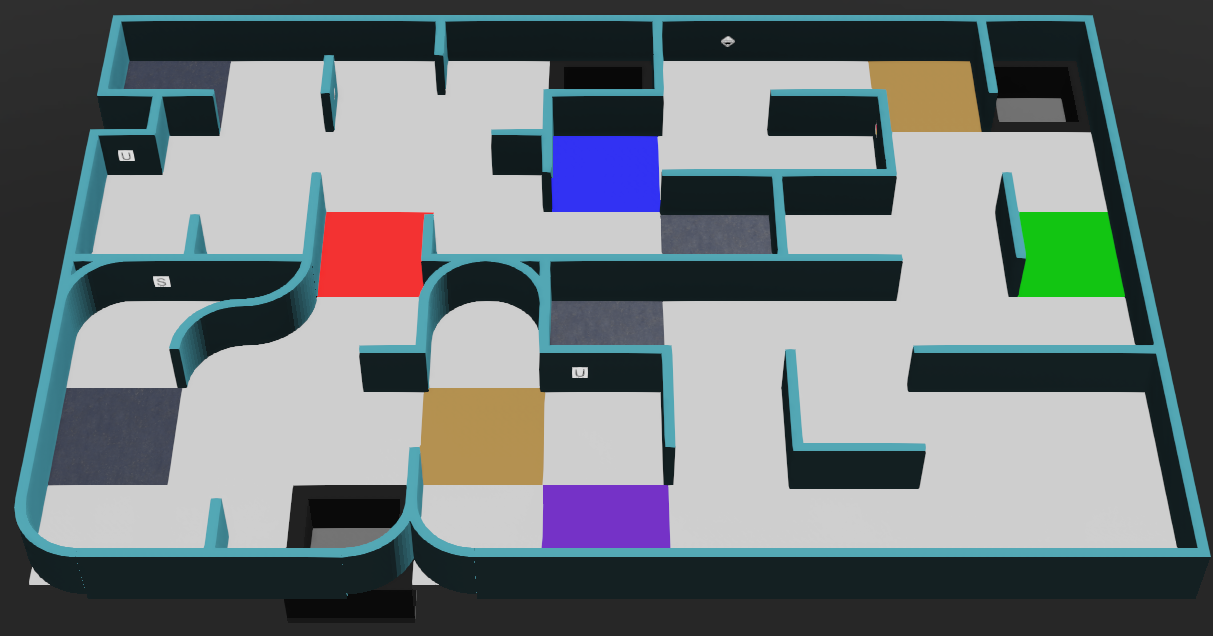
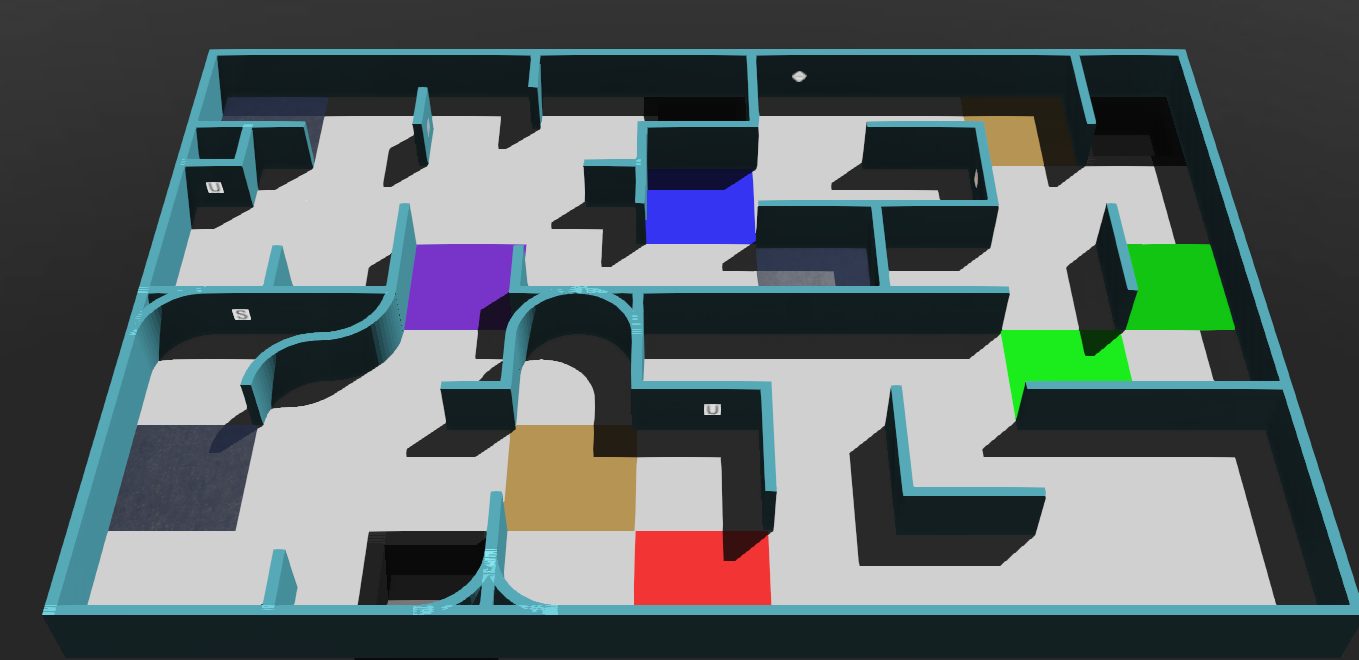
update world1.wbt world2.wbt info for map answer section

diff --git a/content/en/docs/Rules/Mapping/_index.md b/content/en/docs/Rules/Mapping/_index.md
@@ -79,7 +79,7 @@ The exception is the following case, where one side of the wall is a normal righ
 
 
 ## Examples
-These are examples of correct answers for some of the maps. The world files used here are provided to you as sample worlds. Note that worlds world1.wbt and world2.wbt do not have area 4s, so technically the connection tiles are not correct. The correct map answer will be applied to room4.wbt.
+These are examples of correct answers for some of the maps. The world files used here are provided to you as sample worlds.
 
 ### world1.wbt
 {{<figure src="world1.png" class="center">}}
@@ -110,11 +110,11 @@ These are examples of correct answers for some of the maps. The world files used
         ['1', '0', '0', '0', '0', '0', '0', '0', '1', '0', '0', '0', '1', '0', '0', '0', '0', '0', '0', '0', '1', '0', '0', '0', '0', '0', '1', '0', '0', '0', '0', '0', '1'],
         ['1', '0', '0', '0', '0', '0', '0', '0', '1', '0', '0', '0', '1', '0', '0', '0', '0', '0', '0', '0', '1', '0', '0', '0', '0', '0', '1', '1', '1', '0', '0', '0', '1'],
         ['1', '0', '0', '0', '0', '0', '0', '0', '1', '0', '0', '0', '1', '0', '0', '0', '0', '0', '0', '0', 'U', '0', '0', '0', '0', '0', '0', '0', '0', '0', '0', '0', '1'],
-        ['1', '0', '0', '0', '0', '0', '0', '0', '1', '1', '1', 'H', '1', '0', '0', '0', '1', '1', '1', '1', '1', '0', '0', '0', '0', '0', '0', '0', '1', '0', '0', '0', '1'],
-        ['P', '0', '0', '0', '0', '0', '0', '0', '0', '0', '0', '0', '1', '0', '0', '0', '0', '8', '0', '8', '0', '0', '0', '0', '0', '0', '0', '0', '1', '0', '0', '0', '1'],
-        ['1', '0', '0', '0', '0', '0', '0', '0', '0', '0', '0', '0', '1', '0', '0', '0', '0', '0', '0', '0', '0', '0', '0', '0', '0', '1', '1', '1', '0', '0', '0', '0', '1'],
-        ['1', '0', '0', '0', '0', '0', '0', '0', '0', '0', '0', '0', '1', '0', '0', '0', '0', '8', '0', '8', '0', '0', '0', '0', '1', '0', '0', '0', '0', '0', '0', '0', '1'],
-        ['1', '0', '0', '0', '0', '0', '0', '0', '0', '0', '0', '0', '1', '0', '0', '0', '1', '1', '1', '1', '1', '0', '0', '0', '1', '0', '0', '0', '0', '0', '0', '0', '1'],
+        ['1', '0', '0', '0', '0', '0', '0', '0', '1', '1', '1', 'H', '1', '0', '0', '0', '0', '0', '0', '0', '1', '0', '0', '0', '0', '0', '0', '0', '1', '0', '0', '0', '1'],
+        ['P', '0', '0', '0', '0', '0', '0', '0', '0', '0', '0', '0', '1', '0', '0', '0', '0', '0', '0', '0', '1', '0', '0', '0', '0', '0', '0', '0', '1', '0', '0', '0', '1'],
+        ['1', '0', '0', '0', '0', '0', '0', '0', '0', '0', '0', '0', '1', '0', '0', '0', '0', '0', '0', '0', '1', '0', '0', '0', '0', '1', '1', '1', '0', '0', '0', '0', '1'],
+        ['1', '0', '0', '0', '0', '0', '0', '0', '0', '0', '0', '0', '1', '0', '0', '0', '0', '0', '0', '0', '1', '0', '0', '0', '1', '0', '0', '0', '0', '0', '0', '0', '1'],
+        ['1', '0', '0', '0', '0', '0', '0', '0', '0', '0', '0', '0', '1', '0', '0', '0', '0', '0', '0', '0', '1', '0', '0', '0', '1', '0', '0', '0', '0', '0', '0', '0', '1'],
         ['1', '0', '0', '0', '0', '0', '0', '0', '0', '0', '0', '0', '0', '0', '0', '0', '0', '4', '0', '4', '1', '0', '0', '0', '0', '0', '0', '0', '0', '0', '0', '0', '1'],
         ['1', '0', '0', '0', '0', '0', '0', '0', '0', '0', '0', '0', '0', '0', '0', '0', '0', '0', '0', '0', '1', '0', '0', '0', '0', '0', '0', '0', '0', '0', '0', '0', '1'],
         ['1', '0', '0', '0', '0', '0', '0', '0', '0', '0', '0', '0', '0', '0', '0', '0', '0', '4', '0', '4', '1', '0', '0', '0', '0', '0', '0', '0', '0', '0', '0', '0', '1'],
@@ -136,21 +136,21 @@ These are examples of correct answers for some of the maps. The world files used
         ['1', 'U', '1', '0', '0', '0', '0', '0', '0', '0', '0', '0', '0', '0', '1', '1', '1', '0', '0', '0', '0', '0', '0', '0', '0', '0', '0', '0', '1', '0', '0', '0', '0', '0', '0', '0', '1'],
         ['1', '0', '0', '0', '0', '0', '0', '0', '0', '0', '0', '0', '0', '0', '0', '0', '1', '6', '0', '6', '0', '0', '0', '0', '0', '0', '0', '0', '1', '0', '0', '0', '0', '0', '0', '0', '1'],
         ['1', '0', '0', '0', '0', '0', '0', '0', '1', '0', '0', '0', '0', '0', '0', '0', '1', '0', '0', '0', '1', '1', '1', '1', '1', '1', '1', '1', '1', '0', '0', '0', '1', '0', '0', '0', '1'],
-        ['1', '0', '0', '0', '0', '0', '0', '0', '1', '8', '0', '8', '0', '0', '0', '0', '0', '0', '0', '0', '0', '4', '0', '4', '1', '0', '0', '0', '0', '0', '0', '0', '1', '5', '0', '5', '1'],
+        ['1', '0', '0', '0', '0', '0', '0', '0', '1', '7', '0', '7', '0', '0', '0', '0', '0', '0', '0', '0', '0', '4', '0', '4', '1', '0', '0', '0', '0', '0', '0', '0', '1', '5', '0', '5', '1'],
         ['1', '0', '0', '0', '1', '0', '0', '0', '1', '0', '0', '0', '0', '0', '0', '0', '0', '0', '0', '0', '0', '0', '0', '0', '1', '0', '0', '0', '0', '0', '0', '0', '1', '0', '0', '0', '1'],
-        ['1', '0', '0', '0', '1', '0', '0', '0', '1', '8', '0', '8', '0', '0', '0', '0', '0', '0', '0', '0', '0', '4', '0', '4', 'H', '0', '0', '0', '0', '0', '0', '0', '1', '5', '0', '5', '1'],
+        ['1', '0', '0', '0', '1', '0', '0', '0', '1', '7', '0', '7', '0', '0', '0', '0', '0', '0', '0', '0', '0', '4', '0', '4', 'H', '0', '0', '0', '0', '0', '0', '0', '1', '5', '0', '5', '1'],
         ['1', '1', '1', 'S', '1', '1', '1', '1', '1', '0', '0', '0', '1', '1', '1', '1', '1', '1', '1', '1', '1', '1', '1', '1', '1', '1', '1', '1', '1', '0', '0', '0', '1', '0', '0', '0', '1'],
-        ['1', '0', '0', '0', '0', '0', '0', '0', '1', '0', '0', '0', '1', '0', '0', '0', '1', '4', '0', '4', '0', '0', '0', '0', '0', '0', '0', '0', '0', '0', '0', '0', '0', '0', '0', '0', '1'],
+        ['1', '0', '0', '0', '0', '0', '0', '0', '1', '0', '0', '0', '1', '0', '0', '0', '1', '4', '0', '4', '0', '0', '0', '0', '0', '0', '0', '0', '0', '9', '0', '9', '0', '0', '0', '0', '1'],
         ['1', '0', '0', '0', '0', '1', '1', '1', '0', '0', '0', '0', '1', '0', '0', '0', '1', '0', '0', '0', '0', '0', '0', '0', '0', '0', '0', '0', '0', '0', '0', '0', '0', '0', '0', '0', '1'],
-        ['1', '0', '0', '0', '1', '0', '0', '0', '0', '0', '0', '0', '1', '0', '0', '0', '1', '4', '0', '4', '0', '0', '0', '0', '0', '0', '0', '0', '0', '0', '0', '0', '0', '0', '0', '0', '1'],
+        ['1', '0', '0', '0', '1', '0', '0', '0', '0', '0', '0', '0', '1', '0', '0', '0', '1', '4', '0', '4', '0', '0', '0', '0', '0', '0', '0', '0', '0', '9', '0', '9', '0', '0', '0', '0', '1'],
         ['1', '0', '0', '0', '1', '0', '0', '0', '0', '0', '1', '1', '1', '0', '0', '0', '1', 'U', '1', '1', '1', '0', '0', '0', '1', '0', '0', '0', '1', '1', '1', '1', '1', '1', '1', '1', '1'],
         ['1', '4', '0', '4', '0', '0', '0', '0', '0', '0', '0', '0', '0', '3', '0', '3', '0', '0', '0', '0', '1', '0', '0', '0', '1', '0', '0', '0', '0', '0', '0', '0', '0', '0', '0', '0', '1'],
         ['1', '0', '0', '0', '0', '0', '0', '0', '0', '0', '0', '0', '0', '0', '0', '0', '0', '0', '0', '0', '1', '0', '0', '0', '1', '0', '0', '0', '0', '0', '0', '0', '0', '0', '0', '0', '1'],
         ['1', '4', '0', '4', '0', '0', '0', '0', '0', '0', '0', '0', '0', '3', '0', '3', '0', '0', '0', '0', '1', '0', '0', '0', '1', '0', '0', '0', '0', '0', '0', '0', '0', '0', '0', '0', '1'],
         ['1', '0', '0', '0', '0', '0', '0', '0', '0', '0', '0', '0', '1', '0', '0', '0', '0', '0', '0', '0', '1', '0', '0', '0', '1', '1', '1', '1', '1', '0', '0', '0', '0', '0', '0', '0', '1'],
-        ['1', '0', '0', '0', '0', '0', '0', '0', '0', '2', '0', '2', '1', '0', '0', '0', '0', '7', '0', '7', '0', '0', '0', '0', '0', '0', '0', '0', '0', '0', '0', '0', '0', '0', '0', '0', '1'],
+        ['1', '0', '0', '0', '0', '0', '0', '0', '0', '2', '0', '2', '1', '0', '0', '0', '0', '8', '0', '8', '0', '0', '0', '0', '0', '0', '0', '0', '0', '0', '0', '0', '0', '0', '0', '0', '1'],
         ['1', '0', '0', '0', '0', '0', '1', '0', '0', '0', '0', '0', '1', '0', '0', '0', '0', '0', '0', '0', '0', '0', '0', '0', '0', '0', '0', '0', '0', '0', '0', '0', '0', '0', '0', '0', '1'],
-        ['1', '0', '0', '0', '0', '0', '1', '0', '0', '2', '0', '2', '1', '0', '0', '0', '0', '7', '0', '7', '0', '0', '0', '0', '0', '0', '0', '0', '0', '0', '0', '0', '0', '0', '0', '0', '1'],
+        ['1', '0', '0', '0', '0', '0', '1', '0', '0', '2', '0', '2', '1', '0', '0', '0', '0', '8', '0', '8', '0', '0', '0', '0', '0', '0', '0', '0', '0', '0', '0', '0', '0', '0', '0', '0', '1'],
         ['0', '1', '1', '1', '1', 'F', '1', '1', '1', '1', '1', '1', '0', '1', '1', '1', '1', '1', '1', '1', '1', '1', '1', '1', '1', '1', '1', '1', '1', 'S', '1', '1', '1', '1', '1', '1', '1']
     ]
 ```
